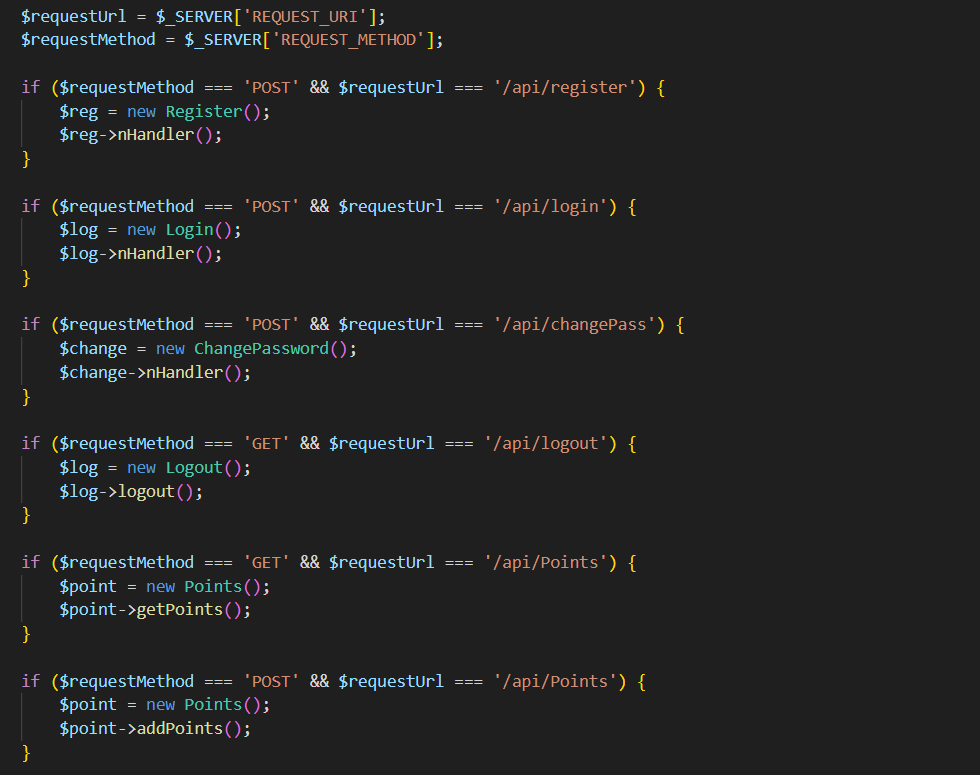
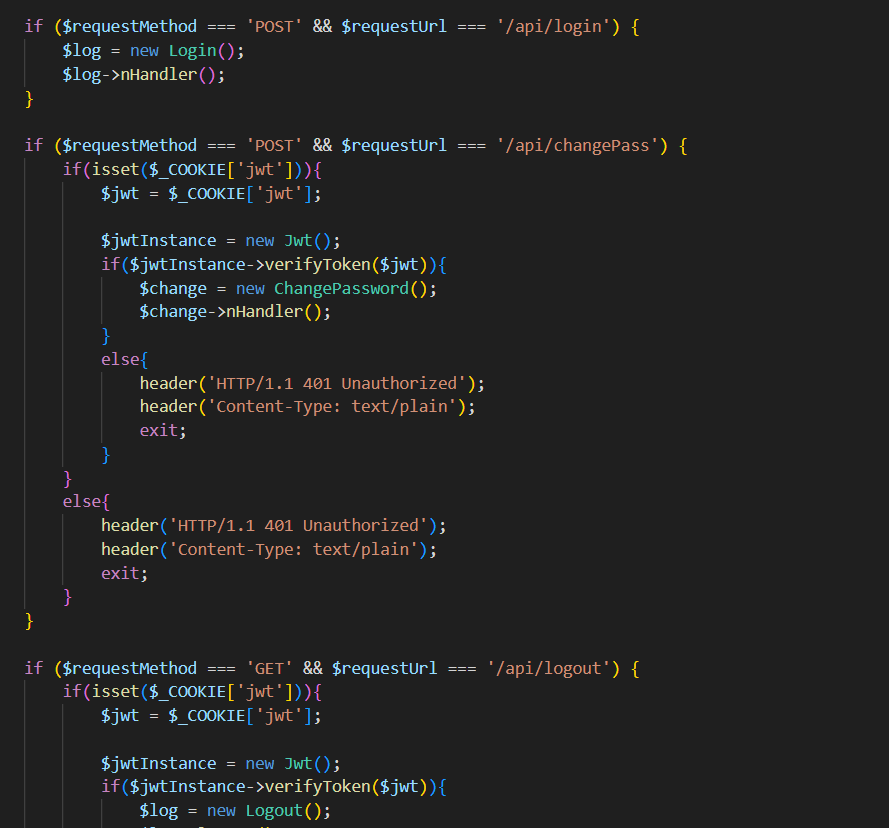
Add files via upload

diff --git a/Documentatie/documentatie.html b/Documentatie/documentatie.html
@@ -114,12 +114,17 @@
                 Pentru efectuarea de mini-game-uri si obtinerea de puncte necesare intrarii in clasament (mai multe mini-game-uri)
             </p>
             <img src="minigame.PNG" alt="img" class="imagine">
-            <h2><span>3.8</span> Diagrama use-case</h2>
+            <h2><span>3.8</span> Forgot password</h2>
+            <p>
+                Pagina pe care utilizatorul o va vedea dupa ce introduce email-ul pentru ca a uitat parola.
+            </p>
+            <img src="forgot.PNG" alt="img" class="imagine">
+            <h2><span>3.9</span> Diagrama use-case</h2>
             <p>
                 <img src="usecase.jpg" alt="usecase" class="imagine">
             </p>
 
-            <h2><span>3.9</span> Diagrama C4</h2>
+            <h2><span>3.10</span> Diagrama C4</h2>
             <p>
                 <p>C1:</p>
                 <img src="../DiagramaC4/Level1.drawio.png" alt="c1" class="imagine">
@@ -194,46 +199,64 @@
         </p>
         <img src="code3.PNG" alt= "code3" class="imagine">
 
-        <h2><span>5.5</span> JSON(ex)</h2>
-        <p>
-            Transmiterea raspunsurilor sub forma de JSON-uri
-        </p>
-        <img src="code4.PNG" alt= "code4" class="imagine">
-
-        <h2><span>5.6</span> Validari(ex)</h2>
+        <h2><span>5.5</span> Validari(ex)</h2>
         <p>
             Validari pentru fiecare actiune (login, signup si changepassword) - validari pentru nume, email, parola, putere parola, etc
         </p>
         <img src="code5.PNG" alt= "code5" class="imagine">
 
-        <h2><span>5.7</span> Setarea rutelor</h2>
+        <h2><span>5.6</span> Setarea rutelor</h2>
         <p>
-            Setarea rutelor pentru REST API - folosind clase
+            Setarea rutelor pentru REST API - folosind clase si verificand jwt-ul pentru fiecare ruta care are nevoie de autentificare (este
+            preluat token-ul si este verificat folosind metoda verifyToken care va fi prezentata mai jos).
         </p>
         <img src="code6.PNG" alt= "code6" class="imagine">
 
-        <h2><span>5.8</span> Fetch-uri</h2>
+        <h2><span>5.7</span> Fetch-uri</h2>
         <p>
             Crearea unor request-uri folosind fetch-uri (valabil pentru toate request-urile - adaugare puncte, creare clasament, etc)
         </p>
         <img src="code7.PNG" alt= "code7" class="imagine">
         <img src="code8.PNG" alt= "code8" class="imagine">
-        <h2><span>5.9</span> JWT</h2>
+        <h2><span>5.8</span> JWT</h2>
         <p>
             Crearea unui JWT atunci cand un user se logheaza si stocarea lui intr-un cookie, in functie de expiration time. De asemenea 
             crearea unei clase Singleton care se ocupa cu verificarea autentificarii (daca un user este conectat) si contine cateva date ale 
-            utilizatorului.
+            utilizatorului. JWT-ul este generat folosind metode precum base64_encode() sau hash_hmac(). In clasa singleton este creata signatura "asteptata" (valida)
+            si este comparata cu signatura token-ului care este stocat in cookie. 
         </p>
         <img src="code9.PNG" alt= "code9" class="imagine">
         <img src="code10.PNG" alt= "code10" class="imagine">
+        <h2><span>5.9</span> Verificare JWT</h2>
+        <p>
+           Verificarea validitatii token-ului. Sunt decodate toate partile token-ului, este creata signatura valida si este verificata 
+           cu signatura token-ului, iar la final este verificata si data de expirare a token-ului. 
+        </p>
+        <img src="code16.PNG" alt= "code16" class="imagine">
         <h2><span>5.10</span> Maxim 3 conturi/IP</h2>
         <p>
             Crearea unui sistem care permite crearea de maxim 3 conturi pe o adresa IP (adresa IP nu a fost criptata din motive "didactice" - 
-            pentru a putea fi vazuta, ar putea fi criptata intr-un mod asemanator cu parolele)
+            pentru a putea fi vazuta, ar putea fi criptata intr-un mod asemanator cu parolele). Cand utilizatorul incearca sa isi creeze un cont, vor avea 
+            loc urmatoarele actiuni: O interogare in baza de date pentru a valida ip-ul (pentru a vedea de cate ori apare, daca apare), 
+            daca id-ul apare de mai putin de 3 ori, va fi creata o noua inregistrare (insert, daca count-ul este 0) sau va fi updatata 
+            inregistrarea care exista (update, daca count-ul este 1 sau 2). 
         </p>
         <img src="code11.PNG" alt= "code11" class="imagine">
         <img src="code12.PNG" alt= "code12" class="imagine">
         <img src="code13.PNG" alt= "code13" class="imagine">
+
+        <h2><span>5.11</span> Forgot password</h2>
+        <p>
+            Posibilitatea de a reseta o parola in cazul in care utilizatorul a uitat-o. Se realizeaza astfel: utilizatorul introduce email-ul, 
+            acesta este verificat, daca este valid este generat un token, care va fi stocat in baza de date pentru 10 minute si pe care utilizatorul 
+            il va primi pe email pentru a putea schimba parola. Pentru a genera token-ul au fost folosite metodele bin2hex() si random_bytes(), iar 
+            pentru a trimite email-uri a fost folosita biblioteca Swift Mailer. Daca utilizatorul reuseste sa isi schimbe parola, token-ul este sters din baza 
+            de date (acesta este sters automat dupa 10 minute daca nu a fost folosit). Pentru a verifica validitatea token-ului, este 
+            creata o interogare in baza de date pentru a verifica daca este gasit token-ul, este validata parola si updatata daca este valida si 
+            este sters token-ul din baza de date.
+        </p>
+        <img src="code14.PNG" alt= "code14" class="imagine">
+        <img src="code15.PNG" alt= "code15" class="imagine">
     </section>
 
     <section>
